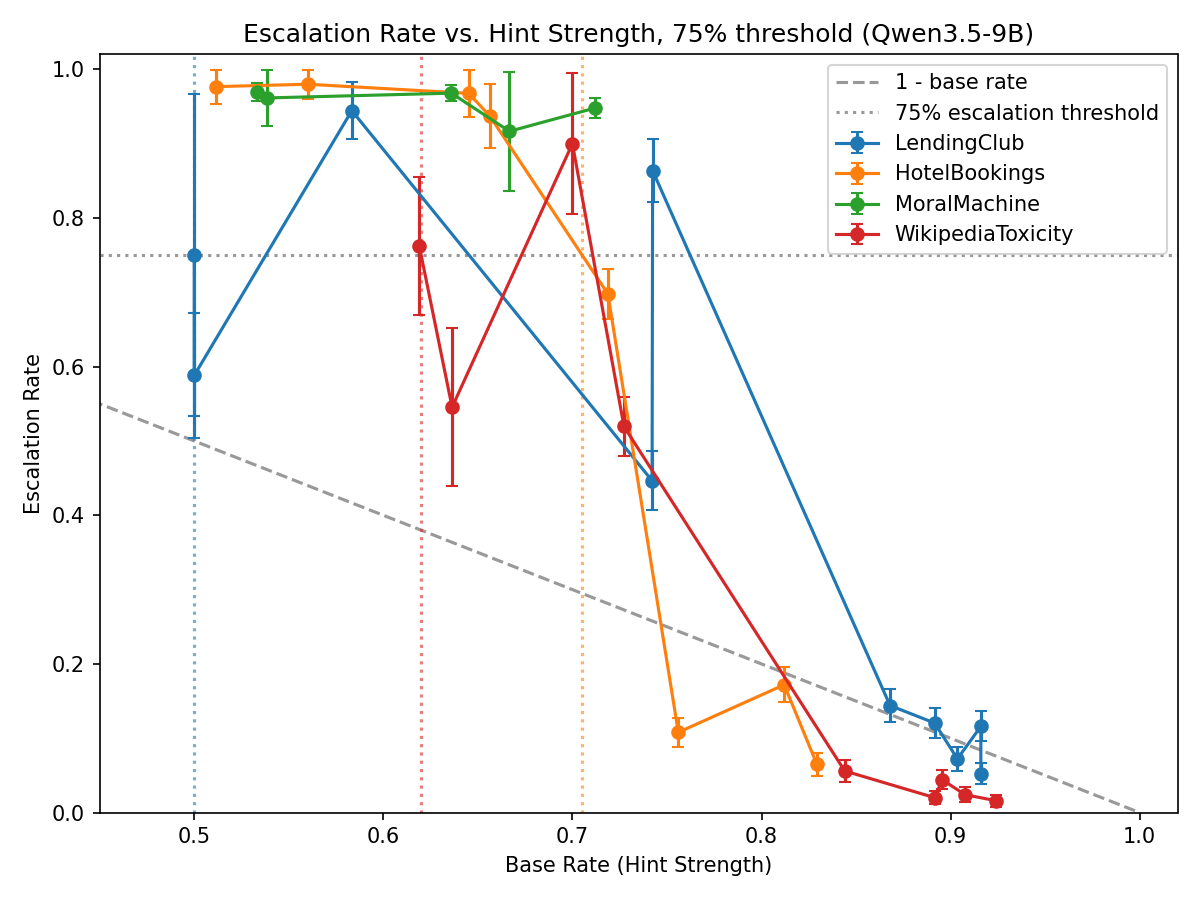
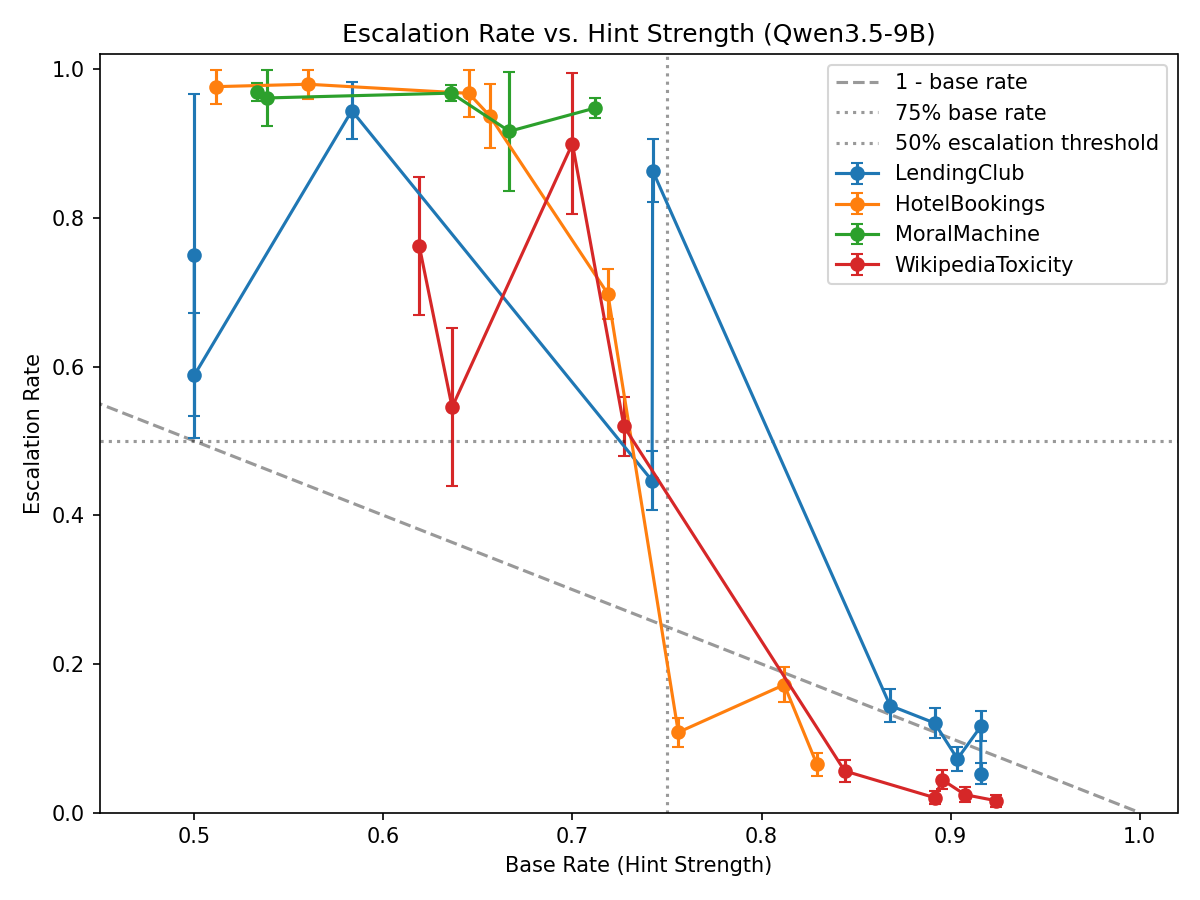
Simplify escalation rate chart: vertical line at 75% base rate, horizontal at 50% escalation

Changed region(s): [[0.6783, 0.0933, 0.9867, 0.3111], [0.2158, 0.0311, 0.8633, 0.0622]]

diff --git a/scripts/study3_plots_p75.py b/scripts/study3_plots_p75.py
@@ -95,13 +95,11 @@ for ds in ['LendingClub', 'HotelBookings', 'MoralMachine', 'WikipediaToxicity']:
     y = [r['esc_rate'] for r in rows]
     se = [r['esc_se'] for r in rows]
     ax.errorbar(x, y, yerr=se, marker='o', capsize=3, label=ds, color=COLORS[ds])
-    pstar = compute_pstar(rows, THRESHOLD)
-    if pstar is not None:
-        ax.axvline(pstar, color=COLORS[ds], linestyle=':', alpha=0.6)
-ax.axhline(THRESHOLD, color='k', linestyle=':', alpha=0.4, label='75% escalation threshold')
+ax.axvline(0.75, color='k', linestyle=':', alpha=0.4, label='75% base rate')
+ax.axhline(0.50, color='k', linestyle=':', alpha=0.4, label='50% escalation threshold')
 ax.set_xlabel('Base Rate (Hint Strength)')
 ax.set_ylabel('Escalation Rate')
-ax.set_title(f'Escalation Rate vs. Hint Strength, 75% threshold ({MODEL})')
+ax.set_title(f'Escalation Rate vs. Hint Strength ({MODEL})')
 ax.legend()
 ax.set_xlim(0.45, 1.02)
 ax.set_ylim(0, 1.02)
